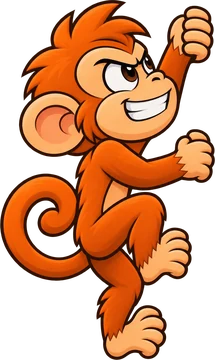
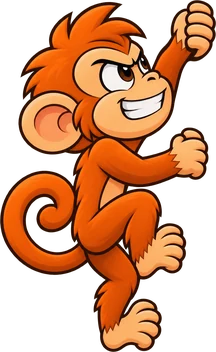
Crash Cocotier : paliers calés sur la tête du singe, singe incliné avec le tronc, bras levé allongé
Claude-Session: https://claude.ai/code/session_01KAPrrUfbsVnKizs7cEU9hj

Changed region(s): [[0.0, 0.0, 1.0, 1.0], [0.0279, 0.5312, 0.0558, 0.5625], [0.0, 0.5625, 0.0279, 0.5938]]

diff --git a/cocotier.js b/cocotier.js
@@ -136,10 +136,10 @@ const CSS=`
 const IMG={fond:"packs/coco-fond.webp",arbre:"packs/coco-arbre.webp",singe:"packs/coco-singe.webp",chute:"packs/coco-chute.webp",sonne:"packs/coco-sonne.webp",sommet:"packs/coco-sommet.webp",titre:"packs/coco-titre.webp"};
 const TW=666,TH=1100;                                     // taille de l'image du cocotier (unités du dessin)
 // milieu du tronc, du bas (où le singe démarre) jusque sous les noix de coco : [y, x, demi-largeur]
-const TRUNK=[[950,290,44],[900,271,38],[860,258,35],[820,249,33],[780,242,30],[740,240,28],[700,241,26],[660,247,25],[620,255,23],[580,265,21],[540,277,21],[500,290,19],[460,303,17],[425,316,16]];
+const TRUNK=[[915,277,40],[900,271,38],[860,258,35],[820,249,33],[780,242,30],[740,240,28],[700,241,26],[660,247,25],[620,255,23],[580,265,21],[540,277,21],[500,290,19],[460,303,17],[425,316,16]];
 const TRUNK_D="M"+TRUNK.map(t=>t[1]+" "+t[0]).join(" L");
 const GROUND=1062,BASEX=262;                              // le sable au pied de l'arbre
-const MK={singe:{h:175,w:105},chute:{h:175,w:169},sonne:{h:170,w:157}};
+const MK={singe:{h:176,w:108,cx:98,ry:.21},chute:{h:175,w:169},sonne:{h:170,w:157}};
 function hwAt(y){for(let i=1;i<TRUNK.length;i++){const a=TRUNK[i-1],b=TRUNK[i];if(y>=b[0]){const k=(a[0]-y)/(a[0]-b[0]);return a[2]+(b[2]-a[2])*k;}}return TRUNK[TRUNK.length-1][2];}
 function sceneSVG(){
   return `<div class="co-bg"></div><img class="co-logo" src="${IMG.titre}" alt="" width="900" height="475">
@@ -224,8 +224,11 @@ const frac=m=>Math.max(0,Math.min(1,Math.log(Math.max(1,m))/Math.log(cap())));
 const pointAt=m=>path.getPointAtLength(plen*frac(m));
 // le singe est à gauche du tronc, mains posées sur l'écorce
 function sprite(k,x,y){const i=$("#coMkImg"),d=MK[k];i.setAttribute("href",IMG[k]);i.setAttribute("width",d.w);i.setAttribute("height",d.h);i.setAttribute("x",x.toFixed(1));i.setAttribute("y",y.toFixed(1));}
-function place(m){const p=pointAt(m),hw=hwAt(p.y);$("#coMk").setAttribute("transform",`translate(${p.x.toFixed(1)} ${p.y.toFixed(1)})`);
-  if(mode!=="done")sprite("singe",-hw-MK.singe.w+8,-MK.singe.h*.5);}
+// repère du singe = hauteur de sa tête (c'est là que l'œil lit le palier) ; il penche avec le tronc pour garder les mains dessus
+function lean(m){const L=plen*frac(m),a=path.getPointAtLength(Math.max(0,L-8)),b=path.getPointAtLength(Math.min(plen,L+8));return Math.atan2(b.x-a.x,-(b.y-a.y))*180/Math.PI;}
+function place(m){const p=pointAt(m),hw=hwAt(p.y),d=MK.singe;
+  $("#coMk").setAttribute("transform",`translate(${p.x.toFixed(1)} ${p.y.toFixed(1)}) rotate(${lean(m).toFixed(1)})`);
+  if(mode!=="done")sprite("singe",-hw-d.cx,-d.h*d.ry);}
 function marks(){
   const c=cap(),list=[1.5,2,3,5,10,c].filter((x,i,a)=>x<=c&&a.indexOf(x)===i&&(x===c||x<c*.8));
   $("#coMarks").innerHTML=list.map(m=>{const p=pointAt(m),top=m===c,x=p.x+hwAt(p.y)+10;
@@ -368,6 +371,7 @@ function fall(c,ghost,late){
     vib([80,40,120]);}
   // le singe lâche le tronc (image de chute), tombe jusqu'au sable, puis reste assis, sonné, au pied de l'arbre
   const p=pointAt(c),inner=$("#coMkIn"),hw=hwAt(p.y),drop=Math.max(0,GROUND-MK.chute.h*.5-p.y);
+  $("#coMk").setAttribute("transform",`translate(${p.x.toFixed(1)} ${p.y.toFixed(1)})`);
   sprite("chute",-hw-MK.chute.w+24,-MK.chute.h*.5);
   const land=()=>{thud();sonne();};
   if(!reduce&&inner.animate&&drop>20){

diff --git a/sw.js b/sw.js
@@ -1,5 +1,5 @@
 /* Monkey Family : fonctionnement hors ligne de l'appli (les images sont mises en cache par la page elle-même) */
-const VERSION="mf-1795603000";
+const VERSION="mf-1795605000";
 const SHELL=["./","index.html","config.js","cloud.js","admin.js","pop.js","casino.js","slot.js","race.js","scratch.js","cocotier.js","lib/gsap.min.js","lib/three.min.js","lib/supabase.js","manifest.webmanifest","icons/icon-192.png","icons/icon-512.png"];
 self.addEventListener("install",e=>{e.waitUntil(caches.open(VERSION).then(c=>c.addAll(SHELL.map(u=>new Request(u,{cache:"reload"})))).then(()=>self.skipWaiting()));});
 self.addEventListener("activate",e=>{e.waitUntil(caches.keys().then(ks=>Promise.all(ks.filter(k=>k.startsWith("mf-")&&k!==VERSION&&k!=="mf-media-v1").map(k=>caches.delete(k)))).then(()=>self.clients.claim()));});
